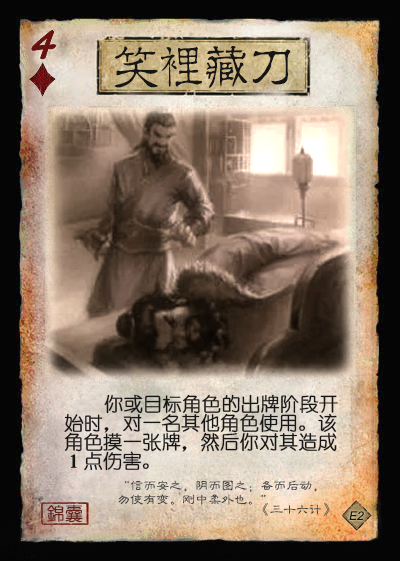
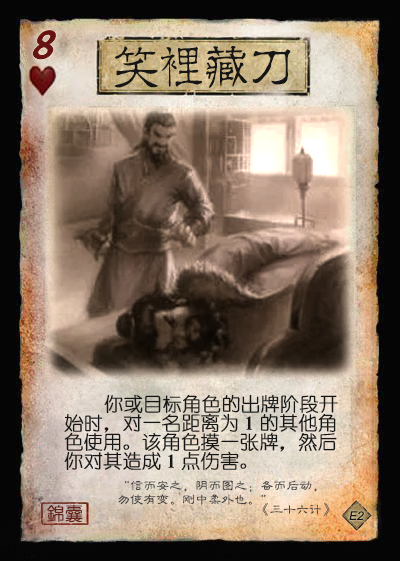
Some fix in ext2 and ext3.

Changed region(s): [[0.15, 0.7273, 0.84, 0.8485], [0.06, 0.0606, 0.15, 0.1818]]

diff --git a/SanGuoSha/SGS-RebirthProject/warehouse.md b/SanGuoSha/SGS-RebirthProject/warehouse.md
@@ -236,8 +236,10 @@
     > 【胜论】与曹操的契合程度较好：曹操的弱点是手里大量【杀】一回合打不出去以及害怕被乐，【胜论】可以帮助曹操直接把输出牌打出去，并且附加一个强命效果。想象场景：袁绍先对曹操使用【乐不思蜀】，然后用【杀】【过河拆桥】当万箭使用，曹操收了牌也无法使用。此时有神郭嘉，就可以让曹操直接使用【杀】或【过河拆桥】反击袁绍。  
     > 【鬼谋】显然对应的是郭嘉遗计定辽东，预言孙策死亡等事迹。实际使用中，“策”的威慑可以给神郭嘉一定保命能力。  
 20. 郭嘉 男 神 3体力 称号：神策鬼谋
-    1. 【定策】：游戏开始时，你将三张牌置于你的武将牌上，称为“策”；你可以将“策”如手牌般使用或打出，然后用牌堆顶的一张牌补充“策”的空位。
+    1. 【定策】：游戏开始时，共发你六张牌，选择其中两张牌置于你的武将牌上，称为“策”；你可以将“策”如手牌般使用或打出，然后用牌堆顶的一张牌补充“策”的空位。
     2. 【鬼谋】：结束阶段/当你受到1点伤害后，你可以观看牌堆顶的两张牌，并可以将其中的一张牌与一张“策”交换。
+
+    > 与张春华体验同质化
 21. 刘徽 男 魏 3体力
     1. 【章注】：TODO（作《九章算术注》事迹，增强或削弱其他牌的效果）
     2. 【割圆】：TODO（当你造成或受到一名其他角色的伤害后，你可以指定另一名位于你和该角色中点位置的角色，你选择一项：获得其一张牌，或令其摸一张牌。）（“中点”体现割圆术）
@@ -308,7 +310,7 @@
     > 相应地，需要修改卧龙【火计】为出牌阶段限一次。
 18. 【盗亦有道】：锦囊，普通  
     出牌阶段，对一名角色使用。你获得其一张手牌，然后若该角色手牌数为全场最少，你交给其一张牌。
-19. 三十六计相应的锦囊牌（标星号的为已出现的）
+19. 三十六计相应的锦囊牌（标星号的为已出现的，标加号的为重置计划扩展使用的）
     1. 胜战计
        1. 瞒天过海
        2. 围魏救赵
@@ -320,7 +322,7 @@
        1. 无中生有 (*)
        2. 暗度陈仓
        3. 隔岸观火
-       4. 笑里藏刀
+       4. 笑里藏刀 (+)
        5. 李代桃僵
        6. 顺手牵羊 (*)
     3. 攻战计
@@ -338,7 +340,7 @@
        5. 远交近攻 (*)
        6. 假道伐虢
     5. 并战计
-       1. 偷梁换柱
+       1. 偷梁换柱 (+)
        2. 指桑骂槐
        3. 假痴不癫
        4. 上屋抽梯

diff --git a/SanGuoSha/SGS-RebirthProject/ext3.md b/SanGuoSha/SGS-RebirthProject/ext3.md
@@ -2,8 +2,7 @@
 
 ## 新概念
 
-1. 联军牌：类似国战势备篇连横牌，可以在自己的回合将此牌交给一名其他角色。
-2. 状态锦囊牌：使用后置于场上，有持续性效果。
+1. 援军牌：类似国战势备篇连横牌，可以在自己的回合将此牌（正面朝上）交给一名其他角色（此动作本身称为援军）。
 
 ## 特殊玩法说明
 
@@ -20,6 +19,8 @@
 
 ### 全牌表
 
+“'”表示援军牌
+
 | 花色\点数  |    A     |   2   |   3   |   4   |   5   |   6   |   7   |   8   |   9   |  10   |   J   |   Q   |   K   |
 | :-------: | :------: | :---: | :---: | :---: | :---: | :---: | :---: | :---: | :---: | :---: | :---: | :---: | :---: |
 |     ♠     |  *古锭*  |       |       |       |       |       |       |       |       |       |       |       |       |
@@ -31,7 +32,12 @@
 
 1. 【联军盛宴】：锦囊，普通  
    出牌阶段，对你和至多两名其他角色使用。你摸一张牌，然后从你开始，每名目标角色依次交给下一名角色一张牌。（最后一名角色交给你）
-2. 【各怀鬼胎】：锦囊，普通
+2. 【偷梁换柱】：锦囊，普通  
+   当一张牌被用于援军时，对其使用。终止此次援军结算，然后获得此牌。
+
+   > 【偷梁换柱】和【闪】与【无懈可击】类似，目标是牌。
+3. 【鹊画弓】：装备，武器 攻击范围：5  
+   TODO
 
 ## 场景牌
 
@@ -45,14 +51,16 @@
 
 2. ![潘凤](./assets/images/heroes/潘凤.jpg) 潘凤 男 汉 4体力
    1. 【某某】：TODO
+3. ![孔融](./assets/images/heroes/孔融.jpg) 孔融 男 汉 3体力
+   1. 【礼让】：当你成为援军的目标时，你可以将援军牌置于弃牌堆，然后你和援军来源各摸一张牌。
 
 ----
 
 1. ![SP袁绍](./assets/images/heroes/SP袁绍.jpg) SP袁绍 男 汉 4体力
-   1. 【某某】：出牌阶段限一次，你可以将两张相同花色的手牌当【联军盛宴】使用。
+   1. 【某某】：出牌阶段限一次，你可以将一张♥手牌当【联军盛宴】使用。
 
    > 称号：置酒高会？
-2. ![SP曹操](./assets/images/heroes/SP曹操.jpg) SP曹操 男 汉
+2. ![SP曹操](./assets/images/heroes/SP曹操.jpg) SP曹操 男 汉 4体力
 3. ![SP孙坚](./assets/images/heroes/SP孙坚.jpg) SP孙坚 男 汉 4体力
 
 ----

diff --git a/SanGuoSha/SGS-RebirthProject/ext2.md b/SanGuoSha/SGS-RebirthProject/ext2.md
@@ -53,7 +53,7 @@
    4. 宝物 1 0.610%
 
 > 说明：  
-> 1.与官方标准版+军争篇相比，该扩展包有更多的【酒】（3+5=8张）和【桃】（8+6=14张），使用【鸩毒】来进行平衡。  
+> 1.与官方标准版+军争篇相比，该扩展包有更多的【酒】（3+5=8张）和【桃】（8+5=13张），使用【鸩毒】来进行平衡。  
 > 2.与官方标准版+军争篇相比，该扩展包杀闪比更低（标准44/24=1.833，该扩展42/26=1.615），同样降低了【酒】增加伤害的几率，平衡【酒】过多带来的影响；同时，强命系武将的价值有所提高。  
 > 3.与官方标准版+军争篇相比，该扩展锦囊比例偏低（标准31.06%，该扩展28.66%），且包含【鸩毒】等无法直接使用的锦囊。依赖锦囊的武将价值有所降低。
 
@@ -68,7 +68,7 @@
 2. ![鸩毒](./assets/images/cards/鸩毒.png) 【鸩毒】：锦囊，普通  
    当一名角色使用【桃】/【酒】时，对其使用。该角色选择一项：取消此【桃】/【酒】的效果；或失去1点体力。
 3. ![笑里藏刀](./assets/images/cards/笑里藏刀.png) 【笑里藏刀】：锦囊，普通  
-   你或目标角色的出牌阶段开始时，对一名其他角色使用。该角色摸一张牌，然后你对其造成1点伤害。
+   你或目标角色的出牌阶段开始时，对一名距离为1的其他角色使用。该角色摸一张牌，然后你对其造成1点伤害。
 
    > 引文：“信而安之，阴而图之；备而后动，勿使有变。刚中柔外也。” ——《三十六计》
 4. ![手戟](./assets/images/cards/手戟.png) 【手戟】：装备，武器 攻击范围：1  
